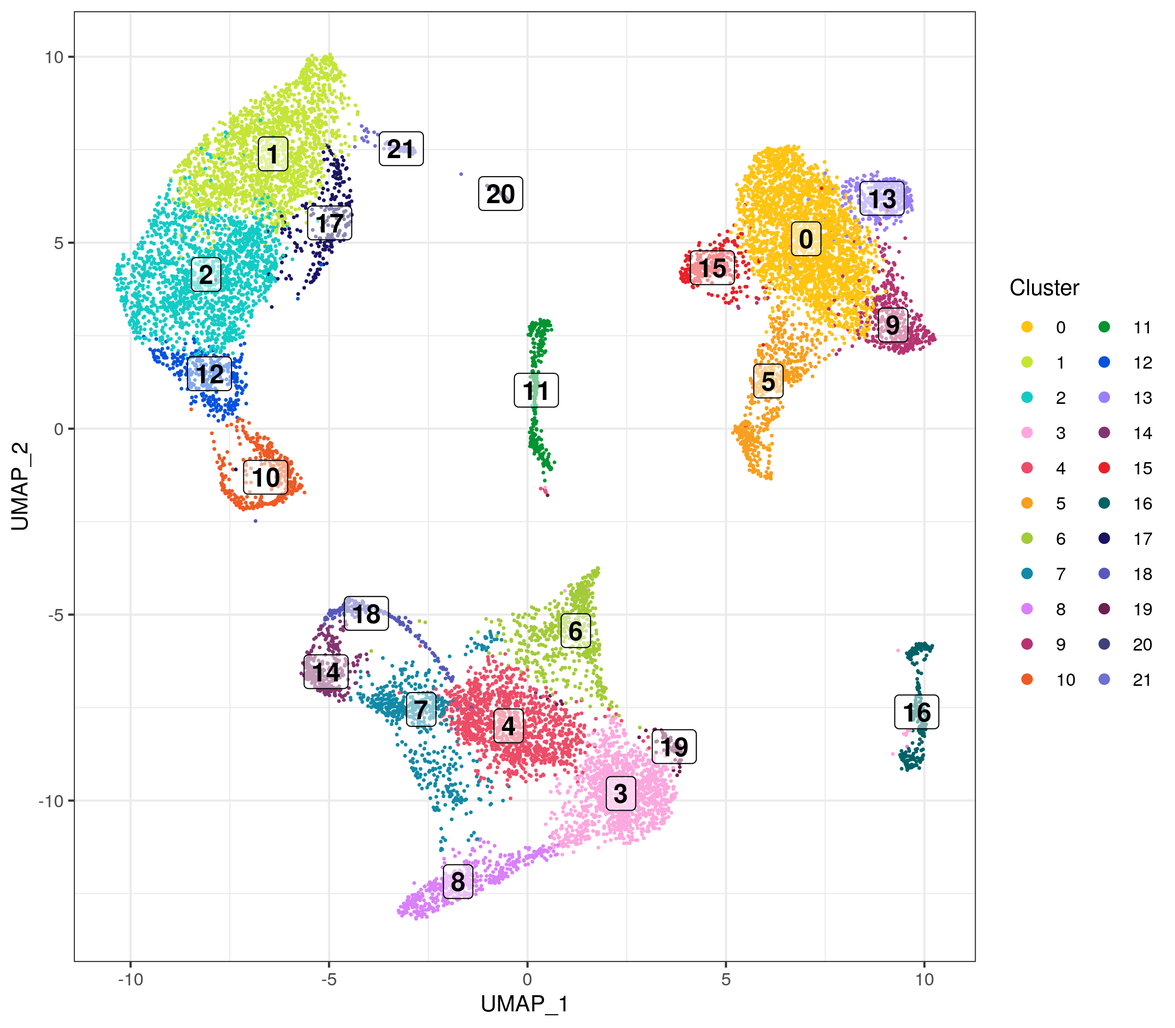
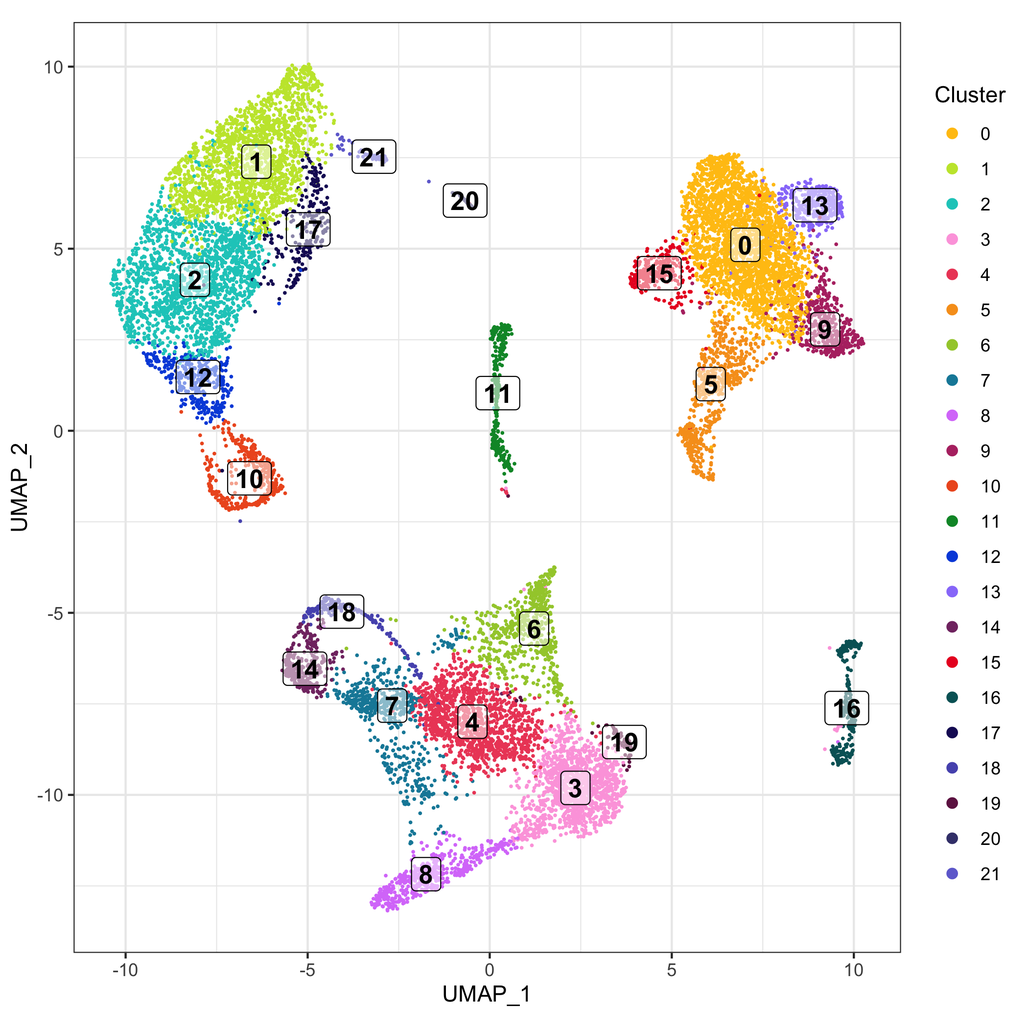
Just do it.

diff --git a/plots/other/alluvial/index.html b/plots/other/alluvial/index.html
@@ -1,0 +1,231 @@
+<!DOCTYPE html>
+<html lang="en-us"><head>
+  <meta charset="utf-8">
+  <meta name="viewport" content="width=device-width, initial-scale=1, shrink-to-fit=no">
+  <meta name="generator" content="Hugo 0.63.2" />
+  
+  <title>Roman Hillje - Data Visualization &amp; Bioinformatics</title>
+  
+  
+  <link rel="stylesheet" href="https://stackpath.bootstrapcdn.com/bootstrap/4.1.3/css/bootstrap.min.css" integrity="sha384-MCw98/SFnGE8fJT3GXwEOngsV7Zt27NXFoaoApmYm81iuXoPkFOJwJ8ERdknLPMO" crossorigin="anonymous">
+  <link rel="stylesheet" href="https://use.fontawesome.com/releases/v5.0.13/css/all.css" integrity="sha384-DNOHZ68U8hZfKXOrtjWvjxusGo9WQnrNx2sqG0tfsghAvtVlRW3tvkXWZh58N9jp" crossorigin="anonymous">
+  <link rel="stylesheet" href="https://fonts.googleapis.com/css?family=Righteous%7CMerriweather:300,300i,400,400i,700,700i">
+  <link rel="stylesheet" href="/css/medium.css">
+</head>
+<body>
+<nav class="navbar navbar-expand-lg navbar-light bg-white fixed-top mediumnavigation nav-down">
+  <div class="container pr-0">
+
+    
+    <a class="navbar-brand" href="http://romanhaa.github.io/">
+      
+      <span style="font-family:Righteous;">Roman Hillje - Data Visualization &amp; Bioinformatics</span>
+      
+    </a>
+
+    <button class="navbar-toggler" type="button" data-toggle="collapse" data-target="#navbarMediumish" aria-controls="navbarSupportedContent" aria-expanded="false" aria-label="Toggle navigation">
+      <span class="navbar-toggler-icon"></span>
+    </button>
+
+    
+    <div class="collapse navbar-collapse" id="navbarMediumish">
+      
+      <ul class="navbar-nav ml-auto">
+        
+        <li class="nav-item ">
+          <a class="nav-link" href="/">About Me</a>
+        </li>
+        
+        <li class="nav-item ">
+          <a class="nav-link" href="/blog">Blog</a>
+        </li>
+        
+        <li class="nav-item ">
+          <a class="nav-link" href="/plots">Plot Gallery</a>
+        </li>
+        
+        <li class="nav-item ">
+          <a class="nav-link" href="/projects">Projects</a>
+        </li>
+        
+      </ul>
+    </div>
+
+  </div>
+</nav>
+
+<div class="site-content">
+			<div class="container">
+  <div class="main-content">
+
+    
+    <div class="container">
+      <div class="row">
+
+        
+        <div class="col-md-12 flex-first flex-md-unordered">
+          <div class="mainheading">
+
+            
+            <h1 class="posttitle">Alluvial plot</h1>
+            <div class="article-post">
+              <p>Category: other_not_ready</p>
+            </div>
+          </div>
+
+          
+          
+            <img class="featured-image img-fluid" src="/images/plots/other/alluvial.png" alt="thumbnail for this post" max-width="400">
+          
+
+          
+          <div class="article-post">
+            <div class="highlight"><pre style="background-color:#fff;-moz-tab-size:2;-o-tab-size:2;tab-size:2"><code class="language-r" data-lang="r"><span style="color:#900;font-weight:bold">library</span>(tidyverse)
+<span style="color:#900;font-weight:bold">library</span>(ggalluvial)
+
+states_all
+<span style="color:#998;font-style:italic"># A tibble: 13,168,874 x 5</span>
+<span style="color:#998;font-style:italic">#    bin            `SD 3m` `SD 6m` `SD 12m` `CR 12m`</span>
+<span style="color:#998;font-style:italic">#    &lt;chr&gt;            &lt;dbl&gt;   &lt;dbl&gt;    &lt;dbl&gt;    &lt;dbl&gt;</span>
+<span style="color:#998;font-style:italic">#  1 chr1:0-200           8       8        8        8</span>
+<span style="color:#998;font-style:italic">#  2 chr1:200-400         8       8        8        8</span>
+<span style="color:#998;font-style:italic">#  3 chr1:400-600         8       8        8        8</span>
+<span style="color:#998;font-style:italic">#  4 chr1:600-800         8       8        8        8</span>
+<span style="color:#998;font-style:italic">#  5 chr1:800-1000        8       8        8        8</span>
+<span style="color:#998;font-style:italic">#  6 chr1:1000-1200       8       8        8        8</span>
+<span style="color:#998;font-style:italic">#  7 chr1:1200-1400       8       8        8        8</span>
+<span style="color:#998;font-style:italic">#  8 chr1:1400-1600       8       8        8        8</span>
+<span style="color:#998;font-style:italic">#  9 chr1:1600-1800       8       8        8        8</span>
+<span style="color:#998;font-style:italic"># 10 chr1:1800-2000       8       8        8        8</span>
+<span style="color:#998;font-style:italic"># … with 13,168,864 more rows</span>
+
+state_transition_lodes <span style="color:#000;font-weight:bold">&lt;-</span> states_all <span style="color:#000;font-weight:bold">%&gt;%</span>
+  <span style="color:#900;font-weight:bold">group_by</span>(`SD 3m`, `SD 12m`, `CR 12m`) <span style="color:#000;font-weight:bold">%&gt;%</span>
+  <span style="color:#900;font-weight:bold">tally</span>() <span style="color:#000;font-weight:bold">%&gt;%</span>
+  <span style="color:#900;font-weight:bold">ungroup</span>() <span style="color:#000;font-weight:bold">%&gt;%</span>
+  <span style="color:#900;font-weight:bold">mutate</span>(
+    `SD 3m` <span style="color:#000;font-weight:bold">=</span> <span style="color:#900;font-weight:bold">factor</span>(`SD 3m`, levels <span style="color:#000;font-weight:bold">=</span> <span style="color:#900;font-weight:bold">c</span>(<span style="color:#d14">&#39;</span><span style="color:#d14">1&#39;</span>,<span style="color:#d14">&#39;</span><span style="color:#d14">2&#39;</span>,<span style="color:#d14">&#39;</span><span style="color:#d14">3&#39;</span>,<span style="color:#d14">&#39;</span><span style="color:#d14">4&#39;</span>,<span style="color:#d14">&#39;</span><span style="color:#d14">5&#39;</span>,<span style="color:#d14">&#39;</span><span style="color:#d14">6&#39;</span>,<span style="color:#d14">&#39;</span><span style="color:#d14">7&#39;</span>,<span style="color:#d14">&#39;</span><span style="color:#d14">8&#39;</span>)),
+    `SD 12m` <span style="color:#000;font-weight:bold">=</span> <span style="color:#900;font-weight:bold">factor</span>(`SD 12m`, levels <span style="color:#000;font-weight:bold">=</span> <span style="color:#900;font-weight:bold">c</span>(<span style="color:#d14">&#39;</span><span style="color:#d14">1&#39;</span>,<span style="color:#d14">&#39;</span><span style="color:#d14">2&#39;</span>,<span style="color:#d14">&#39;</span><span style="color:#d14">3&#39;</span>,<span style="color:#d14">&#39;</span><span style="color:#d14">4&#39;</span>,<span style="color:#d14">&#39;</span><span style="color:#d14">5&#39;</span>,<span style="color:#d14">&#39;</span><span style="color:#d14">6&#39;</span>,<span style="color:#d14">&#39;</span><span style="color:#d14">7&#39;</span>,<span style="color:#d14">&#39;</span><span style="color:#d14">8&#39;</span>)),
+    `CR 12m` <span style="color:#000;font-weight:bold">=</span> <span style="color:#900;font-weight:bold">factor</span>(`CR 12m`, levels <span style="color:#000;font-weight:bold">=</span> <span style="color:#900;font-weight:bold">c</span>(<span style="color:#d14">&#39;</span><span style="color:#d14">1&#39;</span>,<span style="color:#d14">&#39;</span><span style="color:#d14">2&#39;</span>,<span style="color:#d14">&#39;</span><span style="color:#d14">3&#39;</span>,<span style="color:#d14">&#39;</span><span style="color:#d14">4&#39;</span>,<span style="color:#d14">&#39;</span><span style="color:#d14">5&#39;</span>,<span style="color:#d14">&#39;</span><span style="color:#d14">6&#39;</span>,<span style="color:#d14">&#39;</span><span style="color:#d14">7&#39;</span>,<span style="color:#d14">&#39;</span><span style="color:#d14">8&#39;</span>)),
+    alpha <span style="color:#000;font-weight:bold">=</span> <span style="color:#900;font-weight:bold">ifelse</span>((`SD 3m` <span style="color:#000;font-weight:bold">==</span> `SD 12m` <span style="color:#000;font-weight:bold">&amp;</span> `SD 3m` <span style="color:#000;font-weight:bold">==</span> `CR 12m`), <span style="color:#099">0</span>, <span style="color:#099">0.5</span>)
+  ) <span style="color:#000;font-weight:bold">%&gt;%</span>
+  <span style="color:#900;font-weight:bold">to_lodes_form</span>(key <span style="color:#000;font-weight:bold">=</span> <span style="color:#d14">&#39;</span><span style="color:#d14">Demographic&#39;</span>, axes <span style="color:#000;font-weight:bold">=</span> <span style="color:#099">1</span><span style="color:#000;font-weight:bold">:</span><span style="color:#099">3</span>)
+
+state_transition_lodes
+<span style="color:#998;font-style:italic"># A tibble: 1,290 x 5</span>
+<span style="color:#998;font-style:italic">#        n alpha alluvium Demographic stratum</span>
+<span style="color:#998;font-style:italic">#    &lt;int&gt; &lt;dbl&gt;    &lt;int&gt; &lt;fct&gt;       &lt;fct&gt;</span>
+<span style="color:#998;font-style:italic">#  1 25324   0          1 SD 3m       1</span>
+<span style="color:#998;font-style:italic">#  2  2792   0.5        2 SD 3m       1</span>
+<span style="color:#998;font-style:italic">#  3  1482   0.5        3 SD 3m       1</span>
+<span style="color:#998;font-style:italic">#  4  3040   0.5        4 SD 3m       1</span>
+<span style="color:#998;font-style:italic">#  5   187   0.5        5 SD 3m       1</span>
+<span style="color:#998;font-style:italic">#  6    74   0.5        6 SD 3m       1</span>
+<span style="color:#998;font-style:italic">#  7   254   0.5        7 SD 3m       1</span>
+<span style="color:#998;font-style:italic">#  8   237   0.5        8 SD 3m       1</span>
+<span style="color:#998;font-style:italic">#  9   872   0.5        9 SD 3m       1</span>
+<span style="color:#998;font-style:italic"># 10  1053   0.5       10 SD 3m       1</span>
+<span style="color:#998;font-style:italic"># … with 1,280 more rows</span>
+
+fig_4C <span style="color:#000;font-weight:bold">&lt;-</span>
+  state_transition_lodes <span style="color:#000;font-weight:bold">%&gt;%</span>
+  <span style="color:#900;font-weight:bold">ggplot</span>(<span style="color:#900;font-weight:bold">aes</span>(x <span style="color:#000;font-weight:bold">=</span> Demographic, stratum <span style="color:#000;font-weight:bold">=</span> stratum, alluvium <span style="color:#000;font-weight:bold">=</span> alluvium, y <span style="color:#000;font-weight:bold">=</span> n,
+    label <span style="color:#000;font-weight:bold">=</span> stratum)) <span style="color:#000;font-weight:bold">+</span>
+  <span style="color:#900;font-weight:bold">scale_x_discrete</span>(labels <span style="color:#000;font-weight:bold">=</span> <span style="color:#900;font-weight:bold">c</span>(<span style="color:#d14">&#39;</span><span style="color:#d14">SD 3m&#39;</span>, <span style="color:#d14">&#39;</span><span style="color:#d14">SD 12m&#39;</span>, <span style="color:#d14">&#39;</span><span style="color:#d14">CR 12m&#39;</span>), position <span style="color:#000;font-weight:bold">=</span> <span style="color:#d14">&#39;</span><span style="color:#d14">top&#39;</span>) <span style="color:#000;font-weight:bold">+</span>
+  <span style="color:#900;font-weight:bold">geom_alluvium</span>(<span style="color:#900;font-weight:bold">aes</span>(fill <span style="color:#000;font-weight:bold">=</span> stratum, alpha <span style="color:#000;font-weight:bold">=</span> alpha), width <span style="color:#000;font-weight:bold">=</span> <span style="color:#099">1</span><span style="color:#000;font-weight:bold">/</span><span style="color:#099">3</span>) <span style="color:#000;font-weight:bold">+</span>
+  <span style="color:#900;font-weight:bold">geom_stratum</span>(<span style="color:#900;font-weight:bold">aes</span>(fill <span style="color:#000;font-weight:bold">=</span> stratum, alpha <span style="color:#000;font-weight:bold">=</span> <span style="color:#099">0.75</span>), width <span style="color:#000;font-weight:bold">=</span> <span style="color:#099">1</span><span style="color:#000;font-weight:bold">/</span><span style="color:#099">3</span>) <span style="color:#000;font-weight:bold">+</span>
+  <span style="color:#900;font-weight:bold">geom_label</span>(stat <span style="color:#000;font-weight:bold">=</span> <span style="color:#d14">&#39;</span><span style="color:#d14">stratum&#39;</span>) <span style="color:#000;font-weight:bold">+</span>
+  <span style="color:#900;font-weight:bold">scale_fill_brewer</span>(palette <span style="color:#000;font-weight:bold">=</span> <span style="color:#d14">&#39;</span><span style="color:#d14">Dark2&#39;</span>, direction <span style="color:#000;font-weight:bold">=</span> <span style="color:#099">1</span>) <span style="color:#000;font-weight:bold">+</span>
+  <span style="color:#900;font-weight:bold">theme_bw</span>() <span style="color:#000;font-weight:bold">+</span>
+  <span style="color:#900;font-weight:bold">labs</span>(x <span style="color:#000;font-weight:bold">=</span> <span style="color:#d14">&#39;</span><span style="color:#d14">&#39;</span>, y <span style="color:#000;font-weight:bold">=</span> <span style="color:#d14">&#39;</span><span style="color:#d14">&#39;</span>, title <span style="color:#000;font-weight:bold">=</span> <span style="color:#d14">&#39;</span><span style="color:#d14">C&#39;</span>) <span style="color:#000;font-weight:bold">+</span>
+  <span style="color:#900;font-weight:bold">theme_bw</span>() <span style="color:#000;font-weight:bold">+</span>
+  <span style="color:#900;font-weight:bold">theme</span>(
+    plot.title <span style="color:#000;font-weight:bold">=</span> <span style="color:#900;font-weight:bold">element_text</span>(face <span style="color:#000;font-weight:bold">=</span> <span style="color:#d14">&#39;</span><span style="color:#d14">bold&#39;</span>, size <span style="color:#000;font-weight:bold">=</span> <span style="color:#099">20</span>),
+    legend.position <span style="color:#000;font-weight:bold">=</span> <span style="color:#d14">&#39;</span><span style="color:#d14">none&#39;</span>,
+    axis.title <span style="color:#000;font-weight:bold">=</span> <span style="color:#900;font-weight:bold">element_blank</span>(),
+    axis.text.x <span style="color:#000;font-weight:bold">=</span> <span style="color:#900;font-weight:bold">element_text</span>(face <span style="color:#000;font-weight:bold">=</span> <span style="color:#d14">&#39;</span><span style="color:#d14">bold&#39;</span>, colour <span style="color:#000;font-weight:bold">=</span> <span style="color:#d14">&#39;</span><span style="color:#d14">black&#39;</span>, size <span style="color:#000;font-weight:bold">=</span> <span style="color:#099">15</span>),
+    axis.text.y <span style="color:#000;font-weight:bold">=</span> <span style="color:#900;font-weight:bold">element_blank</span>(),
+    axis.ticks.x <span style="color:#000;font-weight:bold">=</span> <span style="color:#900;font-weight:bold">element_blank</span>(),
+    axis.ticks.y <span style="color:#000;font-weight:bold">=</span> <span style="color:#900;font-weight:bold">element_blank</span>(),
+    panel.grid.major <span style="color:#000;font-weight:bold">=</span> <span style="color:#900;font-weight:bold">element_blank</span>(),
+    panel.grid.minor <span style="color:#000;font-weight:bold">=</span> <span style="color:#900;font-weight:bold">element_blank</span>(),
+    panel.border <span style="color:#000;font-weight:bold">=</span> <span style="color:#900;font-weight:bold">element_blank</span>()
+  )
+<span style="color:#900;font-weight:bold">ggsave</span>(<span style="color:#d14">&#39;</span><span style="color:#d14">figure_4/C.pdf&#39;</span>, fig_4C)
+
+
+
+
+
+
+
+
+
+
+
+p <span style="color:#000;font-weight:bold">&lt;-</span> <span style="color:#900;font-weight:bold">ggplot</span>(
+    data <span style="color:#000;font-weight:bold">=</span> titanic_wide,
+    <span style="color:#900;font-weight:bold">aes</span>(
+      axis1 <span style="color:#000;font-weight:bold">=</span> Class,
+      axis2 <span style="color:#000;font-weight:bold">=</span> Sex,
+      axis3 <span style="color:#000;font-weight:bold">=</span> Age,
+      y <span style="color:#000;font-weight:bold">=</span> Freq
+    )
+  ) <span style="color:#000;font-weight:bold">+</span>
+  <span style="color:#900;font-weight:bold">scale_x_discrete</span>(limits <span style="color:#000;font-weight:bold">=</span> <span style="color:#900;font-weight:bold">c</span>(<span style="color:#d14">&#39;</span><span style="color:#d14">Class&#39;</span>, <span style="color:#d14">&#39;</span><span style="color:#d14">Sex&#39;</span>, <span style="color:#d14">&#39;</span><span style="color:#d14">Age&#39;</span>), expand <span style="color:#000;font-weight:bold">=</span> <span style="color:#900;font-weight:bold">c</span>(<span style="color:#099">0.1</span>, <span style="color:#099">0</span>), position <span style="color:#000;font-weight:bold">=</span> <span style="color:#d14">&#39;</span><span style="color:#d14">top&#39;</span>) <span style="color:#000;font-weight:bold">+</span>
+  <span style="color:#900;font-weight:bold">geom_alluvium</span>(<span style="color:#900;font-weight:bold">aes</span>(fill <span style="color:#000;font-weight:bold">=</span> Survived)) <span style="color:#000;font-weight:bold">+</span>
+  <span style="color:#900;font-weight:bold">geom_stratum</span>() <span style="color:#000;font-weight:bold">+</span>
+  <span style="color:#900;font-weight:bold">scale_fill_jcolors</span>(palette <span style="color:#000;font-weight:bold">=</span> <span style="color:#d14">&#39;</span><span style="color:#d14">default&#39;</span>) <span style="color:#000;font-weight:bold">+</span>
+  <span style="color:#900;font-weight:bold">geom_text</span>(stat <span style="color:#000;font-weight:bold">=</span> <span style="color:#d14">&#39;</span><span style="color:#d14">stratum&#39;</span>, label.strata <span style="color:#000;font-weight:bold">=</span> <span style="color:#000;font-weight:bold">TRUE</span>) <span style="color:#000;font-weight:bold">+</span>
+  <span style="color:#900;font-weight:bold">theme_bw</span>() <span style="color:#000;font-weight:bold">+</span>
+  <span style="color:#900;font-weight:bold">theme</span>(
+    plot.title <span style="color:#000;font-weight:bold">=</span> <span style="color:#900;font-weight:bold">element_text</span>(face <span style="color:#000;font-weight:bold">=</span> <span style="color:#d14">&#39;</span><span style="color:#d14">bold&#39;</span>, size <span style="color:#000;font-weight:bold">=</span> <span style="color:#099">20</span>),
+    legend.position <span style="color:#000;font-weight:bold">=</span> <span style="color:#d14">&#39;</span><span style="color:#d14">none&#39;</span>,
+    axis.title <span style="color:#000;font-weight:bold">=</span> <span style="color:#900;font-weight:bold">element_blank</span>(),
+    axis.text.x <span style="color:#000;font-weight:bold">=</span> <span style="color:#900;font-weight:bold">element_text</span>(face <span style="color:#000;font-weight:bold">=</span> <span style="color:#d14">&#39;</span><span style="color:#d14">bold&#39;</span>, colour <span style="color:#000;font-weight:bold">=</span> <span style="color:#d14">&#39;</span><span style="color:#d14">black&#39;</span>, size <span style="color:#000;font-weight:bold">=</span> <span style="color:#099">15</span>),
+    axis.text.y <span style="color:#000;font-weight:bold">=</span> <span style="color:#900;font-weight:bold">element_blank</span>(),
+    axis.ticks.x <span style="color:#000;font-weight:bold">=</span> <span style="color:#900;font-weight:bold">element_blank</span>(),
+    axis.ticks.y <span style="color:#000;font-weight:bold">=</span> <span style="color:#900;font-weight:bold">element_blank</span>(),
+    panel.grid.major <span style="color:#000;font-weight:bold">=</span> <span style="color:#900;font-weight:bold">element_blank</span>(),
+    panel.grid.minor <span style="color:#000;font-weight:bold">=</span> <span style="color:#900;font-weight:bold">element_blank</span>(),
+    panel.border <span style="color:#000;font-weight:bold">=</span> <span style="color:#900;font-weight:bold">element_blank</span>()
+  )
+
+
+
+
+</code></pre></div>
+          </div>
+
+        </div>
+      </div>
+    </div>
+  </div>
+
+			</div>
+<footer class="footer">
+  <div class="container">
+    <div class="row">
+      <div class="col-md-4 col-sm-4 text-center text-lg-left">
+        &copy; Copyright Roman Hillje - All rights reserved
+      </div>
+      <section class="col-md-4 col-sm-4 text-center">
+        <a target="_blank" href="https://github.com/romanhaa"><i class="fab fa-github" style="color: rgba(0,0,0,.44); font-size: 2rem; margin-left: 10px" aria-hidden="true"></i></a>
+        <a target="_blank" href="https://www.twitter.com/fakechek1"><i class="fab fa-twitter" style="color: rgba(0,0,0,.44); font-size: 2rem; margin-left: 10px" aria-hidden="true"></i></a>
+        <a target="_blank" href="https://linkedin.com/in/roman.hillje"><i class="fab fa-linkedin" style="color: rgba(0,0,0,.44); font-size: 2rem; margin-left: 10px" aria-hidden="true"></i></a>
+      </section>
+      <div class="col-md-4 col-sm-4 text-center text-lg-right">
+        Adapted from <a target="_blank" href="https://www.wowthemes.net">Mediumish Theme</a>
+      </div>
+    </div>
+  </div>
+</footer>
+</div>
+
+<script src="https://code.jquery.com/jquery-3.3.1.min.js"></script>
+<script src="https://cdnjs.cloudflare.com/ajax/libs/popper.js/1.14.3/umd/popper.min.js" integrity="sha384-ZMP7rVo3mIykV+2+9J3UJ46jBk0WLaUAdn689aCwoqbBJiSnjAK/l8WvCWPIPm49" crossorigin="anonymous"></script>
+<script src="https://stackpath.bootstrapcdn.com/bootstrap/4.1.3/js/bootstrap.min.js" integrity="sha384-ChfqqxuZUCnJSK3+MXmPNIyE6ZbWh2IMqE241rYiqJxyMiZ6OW/JmZQ5stwEULTy" crossorigin="anonymous"></script>
+<script src="/js/mediumish.js"></script>
+
+	</body>
+</html>

diff --git a/plots/scatter/5/index.html b/plots/scatter/5/index.html
@@ -82,10 +82,6 @@
           <div class="article-post">
             <div class="highlight"><pre style="background-color:#fff;-moz-tab-size:2;-o-tab-size:2;tab-size:2"><code class="language-r" data-lang="r"><span style="color:#900;font-weight:bold">library</span>(tidyverse)
 <span style="color:#900;font-weight:bold">library</span>(Seurat)
-<span style="color:#900;font-weight:bold">library</span>(ComplexHeatmap)
-<span style="color:#900;font-weight:bold">library</span>(circlize)
-<span style="color:#900;font-weight:bold">library</span>(gridExtra)
-<span style="color:#900;font-weight:bold">library</span>(ggplotify)
 
 <span style="color:#998;font-style:italic"># create color palette from flatuicolors.com</span>
 colors_dutch <span style="color:#000;font-weight:bold">&lt;-</span> <span style="color:#900;font-weight:bold">c</span>(
@@ -129,11 +125,12 @@ p <span style="color:#000;font-weight:bold">&lt;-</span> <span style="color:#900
     show.legend <span style="color:#000;font-weight:bold">=</span> <span style="color:#000;font-weight:bold">FALSE</span>
   ) <span style="color:#000;font-weight:bold">+</span>
   <span style="color:#900;font-weight:bold">theme_bw</span>() <span style="color:#000;font-weight:bold">+</span>
-  <span style="color:#900;font-weight:bold">scale_color_manual</span>(values <span style="color:#000;font-weight:bold">=</span> custom_colors<span style="color:#000;font-weight:bold">$</span>discrete) <span style="color:#000;font-weight:bold">+</span>
+  <span style="color:#900;font-weight:bold">scale_color_manual</span>(values <span style="color:#000;font-weight:bold">=</span> custom_colors) <span style="color:#000;font-weight:bold">+</span>
   <span style="color:#900;font-weight:bold">labs</span>(color <span style="color:#000;font-weight:bold">=</span> <span style="color:#d14">&#39;</span><span style="color:#d14">Cluster&#39;</span>) <span style="color:#000;font-weight:bold">+</span>
-  <span style="color:#900;font-weight:bold">guides</span>(colour <span style="color:#000;font-weight:bold">=</span> <span style="color:#900;font-weight:bold">guide_legend</span>(override.aes <span style="color:#000;font-weight:bold">=</span> <span style="color:#900;font-weight:bold">list</span>(size <span style="color:#000;font-weight:bold">=</span> <span style="color:#099">2</span>))) <span style="color:#000;font-weight:bold">+</span>
+  <span style="color:#900;font-weight:bold">coord_fixed</span>() <span style="color:#000;font-weight:bold">+</span>
+  <span style="color:#900;font-weight:bold">guides</span>(colour <span style="color:#000;font-weight:bold">=</span> <span style="color:#900;font-weight:bold">guide_legend</span>(ncol <span style="color:#000;font-weight:bold">=</span> <span style="color:#099">1</span>, override.aes <span style="color:#000;font-weight:bold">=</span> <span style="color:#900;font-weight:bold">list</span>(size <span style="color:#000;font-weight:bold">=</span> <span style="color:#099">2</span>))) <span style="color:#000;font-weight:bold">+</span>
   <span style="color:#900;font-weight:bold">theme</span>(legend.position <span style="color:#000;font-weight:bold">=</span> <span style="color:#d14">&#39;</span><span style="color:#d14">right&#39;</span>)
-<span style="color:#900;font-weight:bold">ggsave</span>(<span style="color:#d14">&#39;</span><span style="color:#d14">5.png&#39;</span>, p, height <span style="color:#000;font-weight:bold">=</span> <span style="color:#099">7</span>, width <span style="color:#000;font-weight:bold">=</span> <span style="color:#099">8</span>)
+<span style="color:#900;font-weight:bold">ggsave</span>(<span style="color:#d14">&#39;</span><span style="color:#d14">5.png&#39;</span>, p, height <span style="color:#000;font-weight:bold">=</span> <span style="color:#099">7</span>, width <span style="color:#000;font-weight:bold">=</span> <span style="color:#099">7</span>)
 </code></pre></div>
           </div>
 

diff --git a/tags/ggplot/page/2/index.html b/tags/ggplot/page/2/index.html
@@ -68,6 +68,25 @@
 <div class="col-lg-4 col-md-6 mb-30px card-group">
   <div class="card h-100">
     <div class="maxthumb">
+      <a href="/plots/geographical/trieste_1/">
+        
+          <img class="img-fluid" src="/images/plots/geographical/trieste_1.png" alt="A thumbnail image">
+        
+      </a>
+    </div>
+    <div class="card-body">
+      <h2 class="card-title"><a class="text-dark" href="/plots/geographical/trieste_1/">Map of Trieste</a></h2>
+      <h4 class="card-text">Jan 1, 0001</h4>
+      <h4 class="card-text">Light version library(sf) library(foreign) library(tidyverse) library(lwgeom) library(stringi) options(stringsAsFactors = FALSE) # download SHP files for region, e.g. from Geofabrik # http://download.geofabrik.de/europe/italy/nord-est.html buildings_a &lt;- read_sf(&#39;gis_osm_buildings_a_free_1.shp&#39;) landuse_a &lt;- read_sf(&#39;gis_osm_landuse_a_free_1.</h4>
+    </div>
+  </div>
+</div>
+
+
+
+<div class="col-lg-4 col-md-6 mb-30px card-group">
+  <div class="card h-100">
+    <div class="maxthumb">
       <a href="/plots/other/phylogenetic_tree/">
         
           <img class="img-fluid" src="/images/plots/other/phylogenetic_tree.png" alt="A thumbnail image">
@@ -154,25 +173,6 @@
       <h2 class="card-title"><a class="text-dark" href="/plots/scatter/4/">Scatter plot 4</a></h2>
       <h4 class="card-text">Jan 1, 0001</h4>
       <h4 class="card-text">library(tidyverse) library(Seurat) # load a single cell expression data set (generated in the lab I work at) seurat &lt;- readRDS(&#39;seurat.rds&#39;) # cells will be grouped by clusters that they have been assigned to cluster_ids &lt;- levels(seurat@meta.</h4>
-    </div>
-  </div>
-</div>
-
-
-
-<div class="col-lg-4 col-md-6 mb-30px card-group">
-  <div class="card h-100">
-    <div class="maxthumb">
-      <a href="/plots/scatter/5/">
-        
-          <img class="img-fluid" src="/images/plots/scatter/5.png" alt="A thumbnail image">
-        
-      </a>
-    </div>
-    <div class="card-body">
-      <h2 class="card-title"><a class="text-dark" href="/plots/scatter/5/">Scatter plot 5</a></h2>
-      <h4 class="card-text">Jan 1, 0001</h4>
-      <h4 class="card-text">library(tidyverse) library(Seurat) library(ComplexHeatmap) library(circlize) library(gridExtra) library(ggplotify) # create color palette from flatuicolors.com colors_dutch &lt;- c( &#39;#FFC312&#39;,&#39;#C4E538&#39;,&#39;#12CBC4&#39;,&#39;#FDA7DF&#39;,&#39;#ED4C67&#39;, &#39;#F79F1F&#39;,&#39;#A3CB38&#39;,&#39;#1289A7&#39;,&#39;#D980FA&#39;,&#39;#B53471&#39;, &#39;#EE5A24&#39;,&#39;#009432&#39;,&#39;#0652DD&#39;,&#39;#9980FA&#39;,&#39;#833471&#39;, &#39;#EA2027&#39;,&#39;#006266&#39;,&#39;#1B1464&#39;,&#39;#5758BB&#39;,&#39;#6F1E51&#39; ) colors_spanish &lt;- c( &#39;#40407a&#39;,&#39;#706fd3&#39;,&#39;#f7f1e3&#39;,&#39;#34ace0&#39;,&#39;#33d9b2&#39;, &#39;#2c2c54&#39;,&#39;#474787&#39;,&#39;#aaa69d&#39;,&#39;#227093&#39;,&#39;#218c74&#39;, &#39;#ff5252&#39;,&#39;#ff793f&#39;,&#39;#d1ccc0&#39;,&#39;#ffb142&#39;,&#39;#ffda79&#39;, &#39;#b33939&#39;,&#39;#cd6133&#39;,&#39;#84817a&#39;,&#39;#cc8e35&#39;,&#39;#ccae62&#39; ) custom_colors &lt;- c(colors_dutch, colors_spanish) # load a single cell expression data set (generated in the lab I work at) seurat &lt;- readRDS(&#39;seurat.</h4>
     </div>
   </div>
 </div>

diff --git a/tags/ggplot/index.html b/tags/ggplot/index.html
@@ -68,6 +68,25 @@
 <div class="col-lg-4 col-md-6 mb-30px card-group">
   <div class="card h-100">
     <div class="maxthumb">
+      <a href="/plots/other/alluvial/">
+        
+          <img class="img-fluid" src="/images/plots/other/alluvial.png" alt="A thumbnail image">
+        
+      </a>
+    </div>
+    <div class="card-body">
+      <h2 class="card-title"><a class="text-dark" href="/plots/other/alluvial/">Alluvial plot</a></h2>
+      <h4 class="card-text">Jan 1, 0001</h4>
+      <h4 class="card-text">library(tidyverse) library(ggalluvial) states_all # A tibble: 13,168,874 x 5 # bin `SD 3m` `SD 6m` `SD 12m` `CR 12m` # &lt;chr&gt; &lt;dbl&gt; &lt;dbl&gt; &lt;dbl&gt; &lt;dbl&gt; # 1 chr1:0-200 8 8 8 8 # 2 chr1:200-400 8 8 8 8 # 3 chr1:400-600 8 8 8 8 # 4 chr1:600-800 8 8 8 8 # 5 chr1:800-1000 8 8 8 8 # 6 chr1:1000-1200 8 8 8 8 # 7 chr1:1200-1400 8 8 8 8 # 8 chr1:1400-1600 8 8 8 8 # 9 chr1:1600-1800 8 8 8 8 # 10 chr1:1800-2000 8 8 8 8 # … with 13,168,864 more rows state_transition_lodes &lt;- states_all %&gt;% group_by(`SD 3m`, `SD 12m`, `CR 12m`) %&gt;% tally() %&gt;% ungroup() %&gt;% mutate( `SD 3m` = factor(`SD 3m`, levels = c(&#39;1&#39;,&#39;2&#39;,&#39;3&#39;,&#39;4&#39;,&#39;5&#39;,&#39;6&#39;,&#39;7&#39;,&#39;8&#39;)), `SD 12m` = factor(`SD 12m`, levels = c(&#39;1&#39;,&#39;2&#39;,&#39;3&#39;,&#39;4&#39;,&#39;5&#39;,&#39;6&#39;,&#39;7&#39;,&#39;8&#39;)), `CR 12m` = factor(`CR 12m`, levels = c(&#39;1&#39;,&#39;2&#39;,&#39;3&#39;,&#39;4&#39;,&#39;5&#39;,&#39;6&#39;,&#39;7&#39;,&#39;8&#39;)), alpha = ifelse((`SD 3m` == `SD 12m` &amp; `SD 3m` == `CR 12m`), 0, 0.</h4>
+    </div>
+  </div>
+</div>
+
+
+
+<div class="col-lg-4 col-md-6 mb-30px card-group">
+  <div class="card h-100">
+    <div class="maxthumb">
       <a href="/plots/distributions/1/">
         
           <img class="img-fluid" src="/images/plots/distributions/1.png" alt="A thumbnail image">
@@ -154,25 +173,6 @@
       <h2 class="card-title"><a class="text-dark" href="/plots/intensity/2/">Intensity plot 2</a></h2>
       <h4 class="card-text">Jan 1, 0001</h4>
       <h4 class="card-text">library(tidyverse) library(viridis) n &lt;- 15000 data &lt;- bind_rows( tibble(x = rnorm(n, 5, 2), y = rnorm(n, 7.5, 4)), tibble(x = rnorm(n, 10, 3), y = rnorm(n, 2.</h4>
-    </div>
-  </div>
-</div>
-
-
-
-<div class="col-lg-4 col-md-6 mb-30px card-group">
-  <div class="card h-100">
-    <div class="maxthumb">
-      <a href="/plots/geographical/trieste_1/">
-        
-          <img class="img-fluid" src="/images/plots/geographical/trieste_1.png" alt="A thumbnail image">
-        
-      </a>
-    </div>
-    <div class="card-body">
-      <h2 class="card-title"><a class="text-dark" href="/plots/geographical/trieste_1/">Map of Trieste</a></h2>
-      <h4 class="card-text">Jan 1, 0001</h4>
-      <h4 class="card-text">Light version library(sf) library(foreign) library(tidyverse) library(lwgeom) library(stringi) options(stringsAsFactors = FALSE) # download SHP files for region, e.g. from Geofabrik # http://download.geofabrik.de/europe/italy/nord-est.html buildings_a &lt;- read_sf(&#39;gis_osm_buildings_a_free_1.shp&#39;) landuse_a &lt;- read_sf(&#39;gis_osm_landuse_a_free_1.</h4>
     </div>
   </div>
 </div>

diff --git a/tags/ggplot/page/3/index.html b/tags/ggplot/page/3/index.html
@@ -68,6 +68,25 @@
 <div class="col-lg-4 col-md-6 mb-30px card-group">
   <div class="card h-100">
     <div class="maxthumb">
+      <a href="/plots/scatter/5/">
+        
+          <img class="img-fluid" src="/images/plots/scatter/5.png" alt="A thumbnail image">
+        
+      </a>
+    </div>
+    <div class="card-body">
+      <h2 class="card-title"><a class="text-dark" href="/plots/scatter/5/">Scatter plot 5</a></h2>
+      <h4 class="card-text">Jan 1, 0001</h4>
+      <h4 class="card-text">library(tidyverse) library(Seurat) # create color palette from flatuicolors.com colors_dutch &lt;- c( &#39;#FFC312&#39;,&#39;#C4E538&#39;,&#39;#12CBC4&#39;,&#39;#FDA7DF&#39;,&#39;#ED4C67&#39;, &#39;#F79F1F&#39;,&#39;#A3CB38&#39;,&#39;#1289A7&#39;,&#39;#D980FA&#39;,&#39;#B53471&#39;, &#39;#EE5A24&#39;,&#39;#009432&#39;,&#39;#0652DD&#39;,&#39;#9980FA&#39;,&#39;#833471&#39;, &#39;#EA2027&#39;,&#39;#006266&#39;,&#39;#1B1464&#39;,&#39;#5758BB&#39;,&#39;#6F1E51&#39; ) colors_spanish &lt;- c( &#39;#40407a&#39;,&#39;#706fd3&#39;,&#39;#f7f1e3&#39;,&#39;#34ace0&#39;,&#39;#33d9b2&#39;, &#39;#2c2c54&#39;,&#39;#474787&#39;,&#39;#aaa69d&#39;,&#39;#227093&#39;,&#39;#218c74&#39;, &#39;#ff5252&#39;,&#39;#ff793f&#39;,&#39;#d1ccc0&#39;,&#39;#ffb142&#39;,&#39;#ffda79&#39;, &#39;#b33939&#39;,&#39;#cd6133&#39;,&#39;#84817a&#39;,&#39;#cc8e35&#39;,&#39;#ccae62&#39; ) custom_colors &lt;- c(colors_dutch, colors_spanish) # load a single cell expression data set (generated in the lab I work at) seurat &lt;- readRDS(&#39;seurat.</h4>
+    </div>
+  </div>
+</div>
+
+
+
+<div class="col-lg-4 col-md-6 mb-30px card-group">
+  <div class="card h-100">
+    <div class="maxthumb">
       <a href="/plots/composition/1/">
         
           <img class="img-fluid" src="/images/plots/composition/flights_by_airport_and_carrier.png" alt="A thumbnail image">
